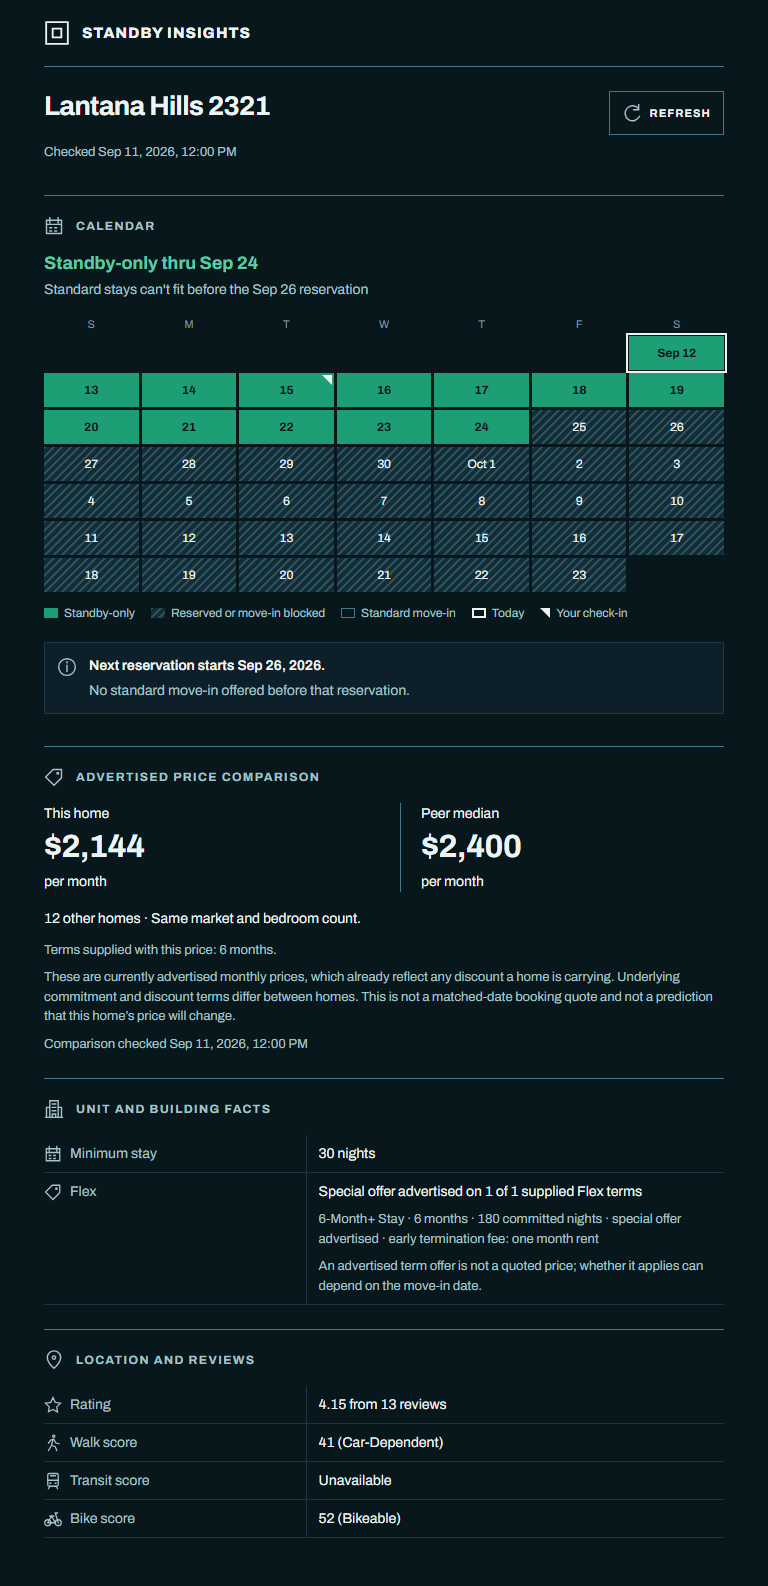
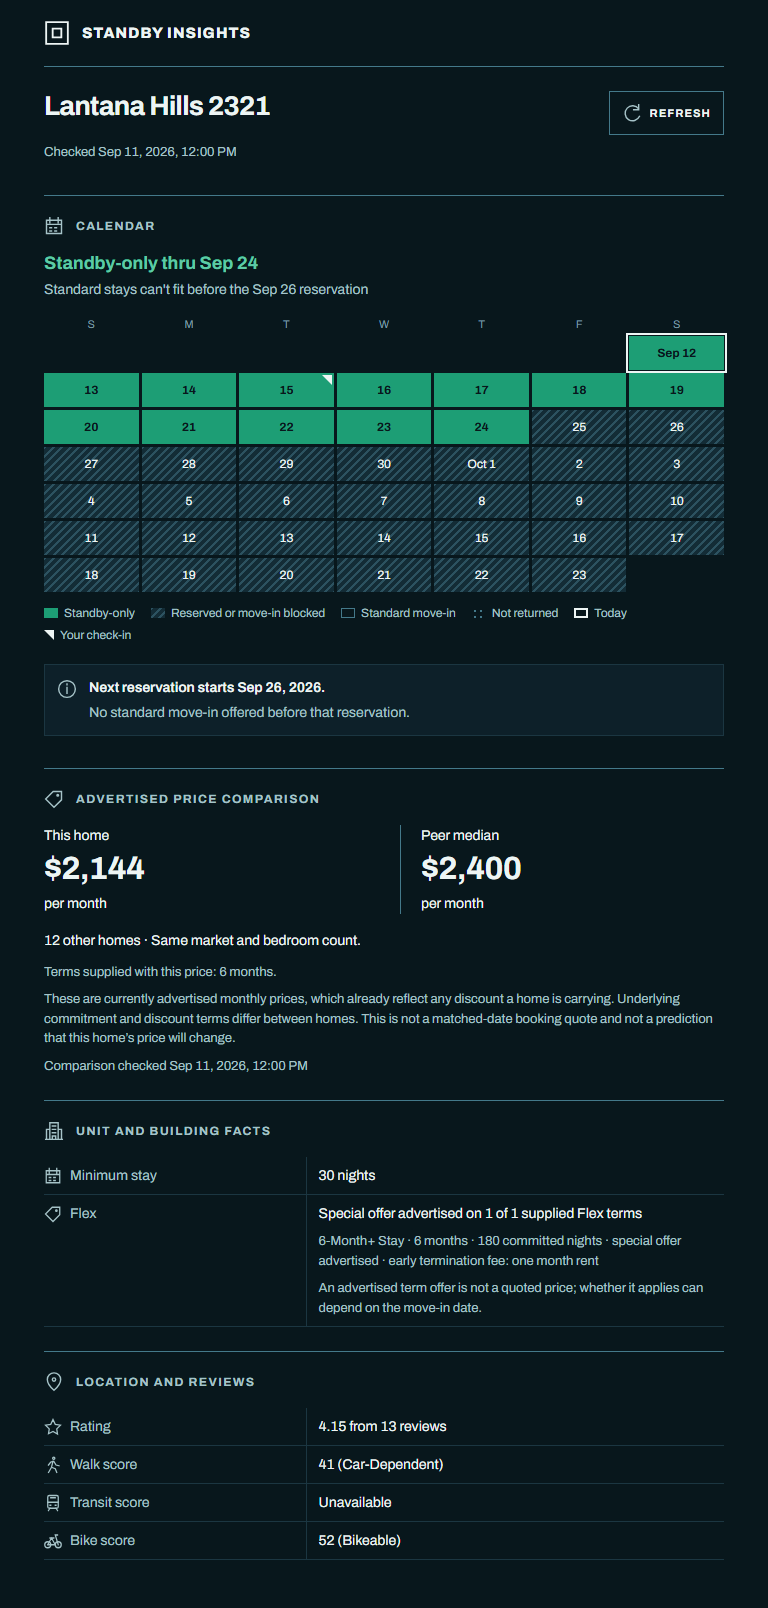
Make missing, stale, and qualified evidence look as uncertain as it is
Not-returned days get a dot texture and a legend key on the panel grid and
card strip instead of reading as ordinary days. Evidence from an older check
says so in the headline on both surfaces, with the card's older-check note
directly under it. The date-disagreement reference note now precedes the
six-week headline and grid it qualifies.

Closes #22

diff --git a/src/panel/panel.css b/src/panel/panel.css
@@ -19,6 +19,7 @@
   --standby-only: #1d9e75;
   --standby-only-text: #5dcaa5;
   --hatch: repeating-linear-gradient(135deg, #2c5260 0 2px, var(--ink-3) 2px 6px);
+  --dots: radial-gradient(circle, #2c5260 1px, transparent 1.5px) 0 0 / 6px 6px;
   --space-1: 4px;
   --space-2: 8px;
   --space-3: 12px;
@@ -124,7 +125,8 @@ h2 {
 #calendar-grid [data-kind="standby-only"], .grid-legend [data-kind="standby-only"] { background: var(--standby-only); color: var(--ink); font-weight: 700; }
 #calendar-grid [data-kind="reserved"], #calendar-grid [data-kind="blocked"], .grid-legend [data-kind="reserved"] { background: var(--hatch); color: var(--on); }
 #calendar-grid [data-kind="move-in"], .grid-legend [data-kind="move-in"] { box-shadow: inset 0 0 0 1px var(--rule-strong); }
-#calendar-grid [data-kind="not-returned"] { color: var(--on-3); }
+/* Missing days are drawn as missing, so they never pass for ordinary open ones. */
+#calendar-grid [data-kind="not-returned"], .grid-legend [data-kind="not-returned"] { background: var(--dots); color: var(--on-3); }
 #calendar-grid .today { outline: 2px solid var(--on); outline-offset: 1px; }
 #calendar-grid .check-in { position: relative; }
 #calendar-grid .check-in::after { content: ""; position: absolute; top: 2px; right: 2px; border: 5px solid transparent; border-top-color: var(--on); border-right-color: var(--on); }
@@ -134,6 +136,7 @@ h2 {
 .grid-legend .today-key { outline: 2px solid var(--on); outline-offset: -2px; }
 .grid-legend .check-in-key { border: 5px solid transparent; border-top-color: var(--on); border-right-color: var(--on); width: 0; height: 0; }
 #reference-note { color: var(--on-2); }
+#reference-note:not(:empty) { margin-bottom: var(--space-4); }
 #calendar-status:not(:empty) { margin-bottom: var(--space-3); }
 .summary {
   display: flex;

diff --git a/test/panel-markup.test.js b/test/panel-markup.test.js
@@ -1,0 +1,33 @@
+import { test } from 'node:test';
+import assert from 'node:assert/strict';
+import { readFile } from 'node:fs/promises';
+
+const read = (path) => readFile(new URL(`../${path}`, import.meta.url), 'utf8');
+
+// A rule for a kind whose declarations are only `transparent` or a text colour
+// would leave missing days looking like ordinary ones.
+function declarationsFor(css, selector) {
+  return [...css.replace(/\/\*[\s\S]*?\*\//g, '').matchAll(/([^{}]+)\{([^}]*)\}/g)]
+    .filter(([, selectors]) => selectors.split(',').some((s) => s.trim() === selector))
+    .map(([, , body]) => body)
+    .join(';');
+}
+
+test('the reference note precedes the six-week headline and grid it qualifies', async () => {
+  const html = await read('src/panel/panel.html');
+  assert(html.indexOf('id="reference-note"') < html.indexOf('id="six-weeks"'));
+});
+
+test('the panel legend keys not-returned days', async () => {
+  const html = await read('src/panel/panel.html');
+  assert.match(html, /<li><i data-kind="not-returned"><\/i>Not returned<\/li>/);
+});
+
+test('not-returned days are drawn, not left blank, on both surfaces', async () => {
+  const panel = declarationsFor(await read('src/panel/panel.css'), '#calendar-grid [data-kind="not-returned"]');
+  const card = declarationsFor(await read('src/content/card-annotations.css'), '.standby-strip-segment[data-kind="not-returned"]');
+  for (const body of [panel, card]) {
+    assert.match(body, /background:\s*(?!transparent)\S/, 'a missing day needs its own mark');
+    assert.doesNotMatch(body, /box-shadow/, 'an outline would read as standard move-in');
+  }
+});

diff --git a/test/panel-render.test.js b/test/panel-render.test.js
@@ -253,3 +253,18 @@ test('the grid marks no check-in when the date is only the check date', () => {
   });
   assert.equal(view.grid.cells.some((cell) => cell.isCheckIn), false);
 });
+
+test('an older check says so in the six-week headline, and not-returned days are their own kind', () => {
+  const state = {
+    status: 'ready', identity: 'confirmed', unitName: null, checkedAt: 1000, isChecking: false, error: null,
+    today: '2026-09-11', referenceDate: '2026-09-11', checkIn: { status: 'none', date: null },
+    ranges: [{ startDate: '2026-09-11', endDate: '2026-09-20', moveInAllowed: true, isReservation: false, unbookableReason: null }],
+  };
+  const fresh = describeState({ ...state, isStale: false });
+  const stale = describeState({ ...state, isStale: true });
+  assert.doesNotMatch(fresh.standbyOnly.headline, /older check/i);
+  assert.equal(stale.standbyOnly.headline, `From an older check: ${fresh.standbyOnly.headline}`);
+  const missing = fresh.grid.cells[10];
+  assert.equal(missing.kind, 'not-returned');
+  assert.equal(missing.title, 'Not in the returned calendar');
+});

diff --git a/src/panel/panel.html b/src/panel/panel.html
@@ -26,6 +26,7 @@
     <section id="calendar-section" aria-labelledby="calendar-heading">
       <h2 id="calendar-heading"><svg class="icon" aria-hidden="true"><use href="icons.svg#calendar" /></svg>Calendar</h2>
       <p id="calendar-status" role="status"></p>
+      <p id="reference-note"></p>
       <div id="six-weeks" hidden>
         <p id="standby-only-headline"></p>
         <p id="standby-only-detail"></p>
@@ -35,11 +36,11 @@
           <li><i data-kind="standby-only"></i>Standby-only</li>
           <li><i data-kind="reserved"></i>Reserved or move-in blocked</li>
           <li><i data-kind="move-in"></i>Standard move-in</li>
+          <li><i data-kind="not-returned"></i>Not returned</li>
           <li><i class="today-key"></i>Today</li>
           <li><i class="check-in-key"></i>Your check-in</li>
         </ul>
       </div>
-      <p id="reference-note"></p>
       <div id="calendar-summary" class="summary" hidden>
         <svg class="icon" aria-hidden="true"><use href="icons.svg#info" /></svg>
         <ul id="summary-list"></ul>

diff --git a/test/card-view.test.js b/test/card-view.test.js
@@ -146,3 +146,17 @@ test('a card whose page and address disagree marks no check-in', () => {
   assert.equal(view.strip.checkInIndex, null);
   assert.equal(view.headlineText, 'No standby-only window detected');
 });
+
+test('an older check says so in the headline itself, not only in a trailing note', () => {
+  const calendar = deriveCalendarEvidence(validClosedCalendarHome);
+  const base = {
+    summary: summarizeForReference(calendar.ranges, REFERENCE),
+    referenceDate: REFERENCE,
+    today: REFERENCE,
+  };
+  const evidence = { status: 'ready', identity: 'confirmed', ranges: calendar.ranges, isChecking: false, checkedAt: 1000 };
+  const fresh = describeCard({ ...base, evidence: { ...evidence, isStale: false } });
+  const stale = describeCard({ ...base, evidence: { ...evidence, isStale: true } });
+  assert.doesNotMatch(fresh.headlineText, /older check/i);
+  assert.equal(stale.headlineText, `From an older check: ${fresh.headlineText}`);
+});

diff --git a/src/content/card-annotations.css b/src/content/card-annotations.css
@@ -43,7 +43,7 @@
   forced-color-adjust: none;
 }
 .standby-evidence-line { color: #5d686b; margin-top: 1px; }
-.standby-evidence-note { color: #5d686b; font-style: italic; margin-top: 4px; }
+.standby-evidence-note { color: #5d686b; font-style: italic; margin-top: 1px; }
 
 .standby-strip {
   position: relative;
@@ -80,7 +80,10 @@
   background: repeating-linear-gradient(135deg, #b4bcbe 0 1.5px, #f1f3f3 1.5px 4px);
 }
 .standby-strip-segment[data-kind="move-in"] { box-shadow: inset 0 0 0 1px #8a9598; }
-.standby-strip-segment[data-kind="not-returned"] { background: transparent; }
+/* Missing days are drawn as missing: dotted, not blank and not outlined like move-in. */
+.standby-strip-segment[data-kind="not-returned"] {
+  background: radial-gradient(circle, #8a9598 .8px, transparent 1.2px) 0 0 / 3px 3px;
+}
 .standby-strip-check-in {
   position: absolute;
   top: -6px;

diff --git a/test/card-annotations.test.js b/test/card-annotations.test.js
@@ -324,3 +324,15 @@ test('an href this extension will not treat as a locator is read as unreadable, 
   assert.deepEqual(h.store.reads, [], 'a general listing href triggers no request');
   assert.equal(h.notices().length, 1, 'it contributes to the one notice instead');
 });
+
+test('an older check keeps its note directly under the headline it qualifies', () => {
+  const h = harness();
+  addCard(h.doc, CARD);
+  h.annotator.start();
+  h.store.set(CARD.response.slug, { ...READY, isStale: true });
+
+  const classes = h.annotations()[0].children.map((el) => el.className);
+  assert.equal(classes[classes.indexOf('standby-evidence-headline') + 1], 'standby-evidence-note');
+  const note = h.annotations()[0].children.find((el) => el.className === 'standby-evidence-note');
+  assert.match(note.textContent, /older check/);
+});

diff --git a/src/lib/six-week-view.js b/src/lib/six-week-view.js
@@ -99,8 +99,17 @@ export function sixWeekView(ranges, today, referenceDate) {
  * The words a member scans for. A standby-only gap is stated from Landing's
  * reason with the reservation that shortens it; nothing here says the member
  * cannot be bumped, only that a standard stay cannot fit.
+ *
+ * Evidence from an older check says so in the headline itself, so the words a
+ * member scans are never stronger than the check behind them.
  */
-export function describeStandbyOnly(view) {
+export function describeStandbyOnly(view, { isStale = false } = {}) {
+  const statement = standbyOnlyStatement(view);
+  if (isStale) statement.headline = `From an older check: ${statement.headline}`;
+  return statement;
+}
+
+function standbyOnlyStatement(view) {
   const { gap } = view;
   if (gap) {
     let headline;

diff --git a/src/content/card-annotations.js b/src/content/card-annotations.js
@@ -96,8 +96,9 @@ export function createCardAnnotator({
     });
 
     // Card order the specification fixes: standby-only headline, its detail,
-    // the six-week strip, then View evidence.
-    container.append(status, headline, detail, strip, scale, note, button);
+    // the six-week strip, then View evidence. An older-check note sits directly
+    // under the headline it qualifies.
+    container.append(status, headline, note, detail, strip, scale, button);
     return { container, status, headline, detail, strip, scale, note, slug };
   }
 

diff --git a/src/content/card-view.js b/src/content/card-view.js
@@ -57,7 +57,7 @@ export function describeCard({ evidence, summary, referenceDate, today, checkIn 
   }
 
   const weeks = sixWeekView(evidence.ranges, today, referenceDate);
-  const statement = describeStandbyOnly(weeks);
+  const statement = describeStandbyOnly(weeks, { isStale: evidence.isStale });
   view.headlineText = statement.headline;
   view.isStandbyOnly = statement.isStandbyOnly;
   view.detailText = statement.isStandbyOnly ? statement.detail : reservationLine(summary, referenceDate);

diff --git a/src/panel/render.js b/src/panel/render.js
@@ -281,7 +281,7 @@ export function describeState(state) {
     if (state.summary) view.summaryItems = summaryItemsFor(state.summary);
     if (state.today && state.referenceDate) {
       const weeks = sixWeekView(state.ranges, state.today, state.referenceDate);
-      view.standbyOnly = describeStandbyOnly(weeks);
+      view.standbyOnly = describeStandbyOnly(weeks, { isStale: state.isStale });
       view.grid = calendarGrid(weeks, state.today, state.checkIn);
     }
   }

diff --git a/DESIGN.md b/DESIGN.md
@@ -129,7 +129,7 @@ A dark petrol family supports pale blue-gray secondary text and off-white primar
 
 **The Neutral Evidence Rule.** Status is stated in words; icons and color never replace those words or imply a condition rating.
 
-**The Standby-only Exception.** One color carries meaning: standby-only green (`#1d9e75` fill, `#5dcaa5` text) marks nights too short for a standard stay, always beside words that say so. Reservations and blocked days are a quiet hatch (`#2c5260` on `ink-3` in the panel grid), standard move-in is a `rule-strong` outline, and not-returned days are blank.
+**The Standby-only Exception.** One color carries meaning: standby-only green (`#1d9e75` fill, `#5dcaa5` text) marks nights too short for a standard stay, always beside words that say so. Reservations and blocked days are a quiet hatch (`#2c5260` on `ink-3` in the panel grid), standard move-in is a `rule-strong` outline, and not-returned days are a dot texture (`#2c5260` dots in the panel grid, `card-move-in` dots on the card strip), keyed "Not returned" so missing days never read as open. An older check prefixes the headline itself with "From an older check:".
 
 ## Typography
 
